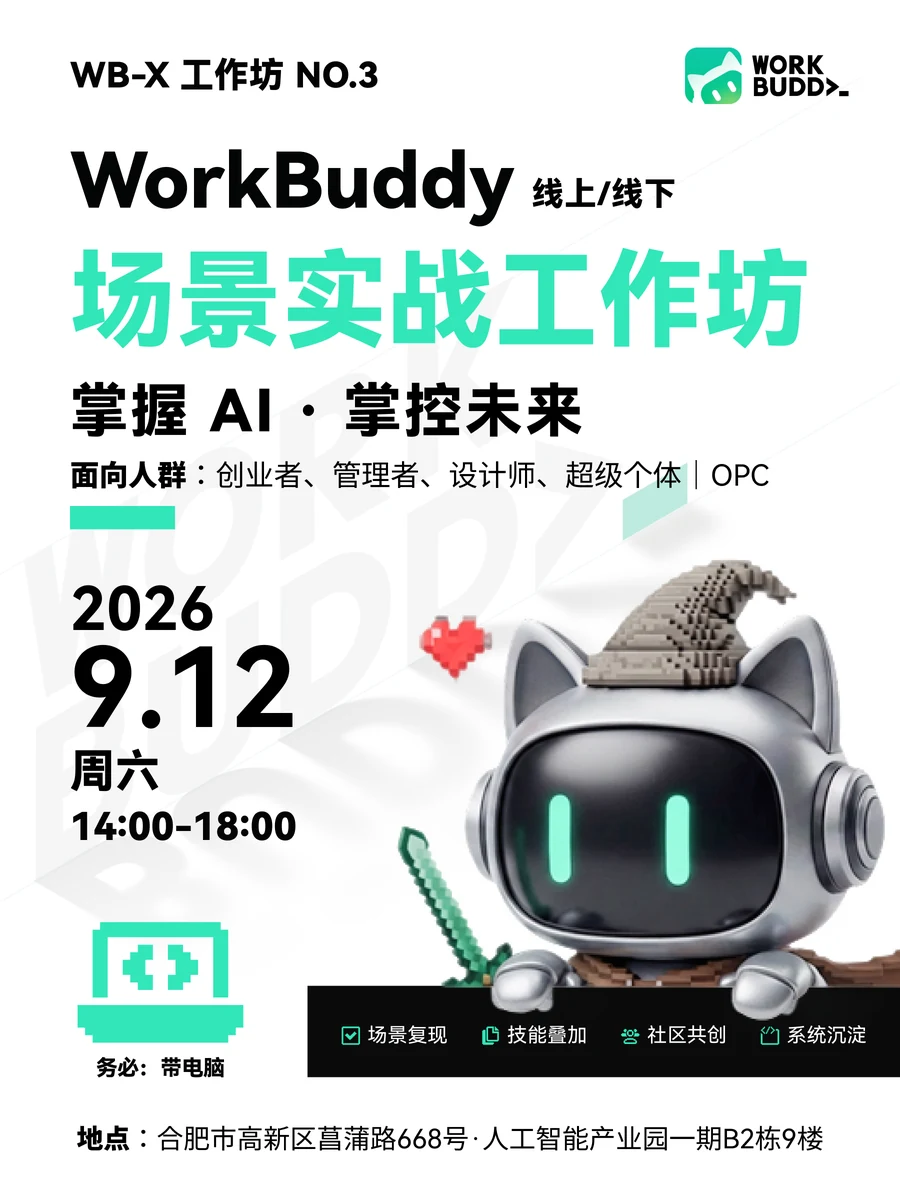
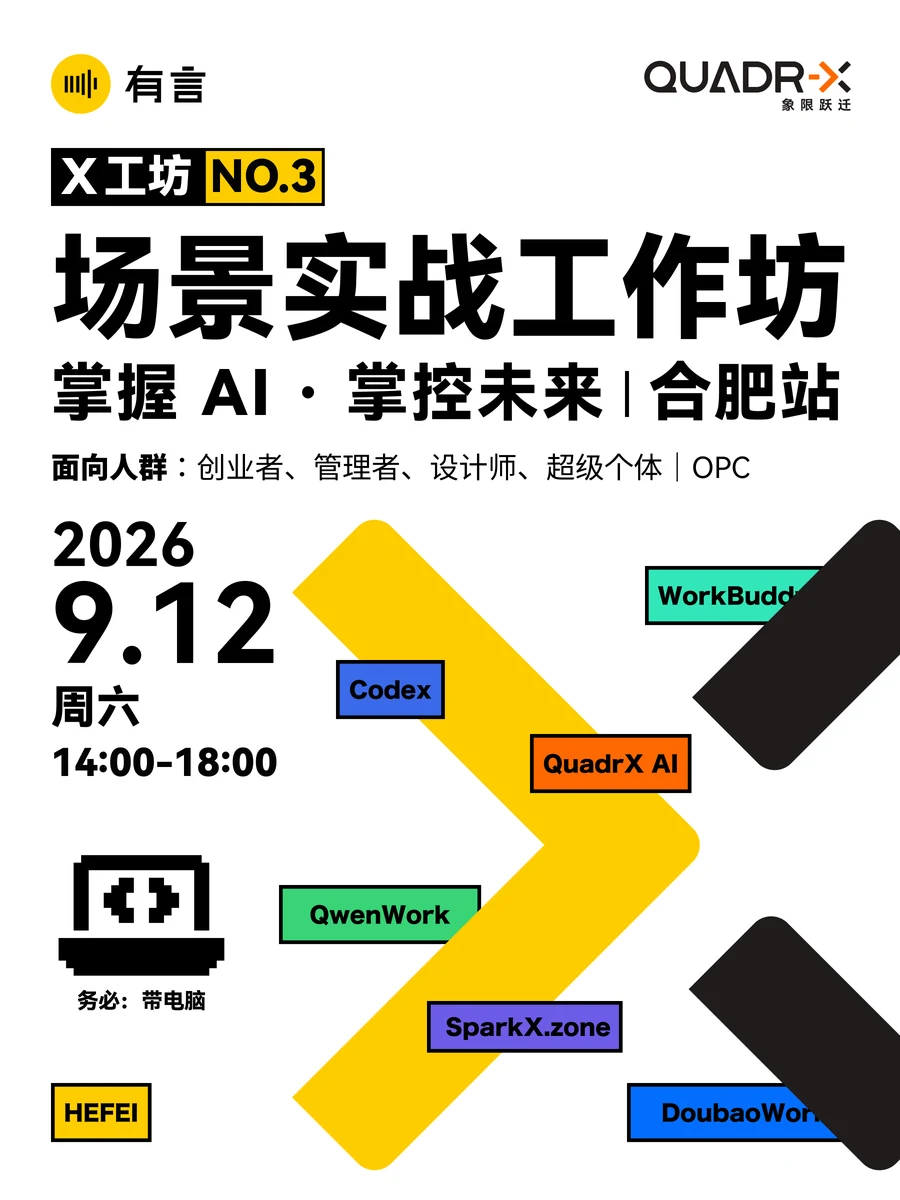
content: update September workshop details

diff --git a/tests/home-workshop.test.ts b/tests/home-workshop.test.ts
@@ -159,7 +159,7 @@ describe('homepage workshop card', () => {
     expect(document.querySelector('.wbx-home-workshop__recap')).not.toBeNull()
   })
 
-  it('shows the floor configured for each workshop edition', async () => {
+  it('shows the configured location and floor for each workshop edition', async () => {
     harness.mountHomePage()
     const editions = Array.from(document.querySelectorAll<HTMLButtonElement>('.wbx-workshop__edition'))
     const floor = () => document.querySelectorAll('.wbx-workshop__facts dd')[3]?.textContent
@@ -170,7 +170,13 @@ describe('homepage workshop card', () => {
     expect(floor()).toBe('B2 栋 9 楼')
     editions[2]?.click()
     await nextTick()
-    expect(floor()).toBe('B2 栋 9 楼')
+    const thirdEditionFacts = Array.from(document.querySelectorAll<HTMLElement>('.wbx-workshop__facts > div'))
+    expect(thirdEditionFacts.map((fact) => fact.querySelector('dt')?.textContent))
+      .toEqual(['时间', '规模', '城市', '地点', '楼层'])
+    expect(thirdEditionFacts[2]?.querySelector('dd')?.textContent).toBe('合肥')
+    expect(Array.from(thirdEditionFacts[3]?.querySelectorAll('dd span') ?? []).map((part) => part.textContent))
+      .toEqual(['高新区菖蒲路 668 号', '人工智能产业园一期'])
+    expect(thirdEditionFacts[4]?.querySelector('dd')?.textContent).toBe('A1 栋 4 楼')
   })
 
   it.each([0, 1, 8, 9])('shows a stable attendee row for %i uploaded avatars', (count) => {
@@ -264,7 +270,6 @@ describe('homepage workshop card', () => {
     await nextTick()
     expect(editions[2].getAttribute('aria-selected')).toBe('true')
     expect(document.activeElement).toBe(editions[2])
-    expect(next()).toBeNull()
 
     editions[2].dispatchEvent(new KeyboardEvent('keydown', { key: 'Home', bubbles: true }))
     await nextTick()
@@ -289,6 +294,31 @@ describe('homepage workshop card', () => {
     previous()?.click()
     await nextTick()
     expect(posterSource()).toContain('workshop-829-benefits.png')
+  })
+
+  it('shows the three September posters and its dedicated registration QR', async () => {
+    harness.mountHomePage()
+    const workshop = document.querySelector('.wbx-home-workshop')
+    const thirdEdition = workshop?.querySelectorAll<HTMLButtonElement>('.wbx-workshop__edition')[2]
+    const posterSource = () => workshop?.querySelector<HTMLImageElement>('.wbx-workshop__poster')?.getAttribute('src')
+    const next = () => workshop?.querySelector<HTMLButtonElement>('.wbx-workshop__poster-control--next')
+
+    thirdEdition?.click()
+    await nextTick()
+
+    expect(posterSource()).toContain('workshop-912.png')
+    expect(workshop?.querySelector('.wbx-workshop__poster-page')?.textContent?.trim()).toBe('1 / 3')
+    next()?.click()
+    await nextTick()
+    expect(posterSource()).toContain('workshop-912-agenda.png')
+    next()?.click()
+    await nextTick()
+    expect(posterSource()).toContain('workshop-912-benefits.png')
+
+    workshop?.querySelector<HTMLButtonElement>('.wbx-home-workshop__registration-trigger')?.click()
+    await nextTick()
+    expect(workshop?.querySelector<HTMLImageElement>('.wbx-home-workshop__registration-popover img')?.getAttribute('src'))
+      .toContain('workshop-912-registration-qr.png')
   })
 
   it('does not steal focus when an open QR is closed by another workshop control', async () => {

diff --git a/tests/product-page-computed-style.test.ts b/tests/product-page-computed-style.test.ts
@@ -548,7 +548,7 @@ describe('product page computed styles', () => {
       document.body.innerHTML = `
         <section class="wbx-home-workshop wbx-workshop">
           <div class="wbx-workshop__panel">
-            <div class="wbx-workshop__left"><div class="wbx-workshop__copy"><div class="wbx-workshop__heading"><p class="wbx-workshop__eyebrow">WORKSHOP</p><h2 id="workshop-title">WorkBuddy X 工作坊 <span class="wbx-workshop__title-edition">第二期</span></h2></div><div class="wbx-workshop__actions"><div class="wbx-home-workshop__registration"><button class="wbx-workshop__action wbx-workshop__action--primary">报名</button></div></div></div><div class="wbx-workshop__editions-row"><div class="wbx-workshop__editions"><button class="wbx-workshop__edition" aria-selected="true">第二期</button></div></div></div>
+            <div class="wbx-workshop__left"><div class="wbx-workshop__copy"><div class="wbx-workshop__heading"><p class="wbx-workshop__eyebrow">WORKSHOP</p><h2 id="workshop-title">WorkBuddy X 工作坊 <span class="wbx-workshop__title-edition">第二期</span></h2></div><div class="wbx-workshop__actions"><div class="wbx-home-workshop__registration"><button class="wbx-workshop__action wbx-workshop__action--primary">报名</button><div class="wbx-home-workshop__registration-popover is-open"><img src="/qr.png" alt="报名二维码"></div></div></div></div><div class="wbx-workshop__editions-row"><div class="wbx-workshop__editions"><button class="wbx-workshop__edition" aria-selected="true">第二期</button></div></div></div>
             <figure class="wbx-workshop__media"><a class="wbx-workshop__poster-link"><img class="wbx-workshop__poster"></a></figure>
             <div class="wbx-workshop__poster-navigation">海报导航</div>
           </div>
@@ -563,10 +563,17 @@ describe('product page computed styles', () => {
       expect(workshop.width).toBe(sectionWidth)
       expect(workshop.marginLeft).toBe(titleInset)
       const facts = document.createElement('dl')
-      facts.className = 'wbx-workshop__facts'
+      facts.className = 'wbx-workshop__facts has-city'
       document.querySelector('.wbx-workshop__copy')!.append(facts)
       expect(getComputedStyle(facts).borderTopColor).toBe('rgb(227, 231, 228)')
       expect(getComputedStyle(facts).borderBottomColor).toBe('rgb(227, 231, 228)')
+      expect(getComputedStyle(facts).gridTemplateColumns).toBe(viewportWidth === 390
+        ? 'repeat(2, minmax(0, 1fr))'
+        : 'minmax(0, 1.4fr) minmax(0, 0.8fr) minmax(0, 0.65fr) minmax(0, 1.55fr) minmax(0, 0.8fr)')
+      const registrationQr = getComputedStyle(document.querySelector('.wbx-home-workshop__registration-popover img')!)
+      expect(registrationQr.marginTop).toBe('12px')
+      expect(registrationQr.marginLeft).toBe('12px')
+      expect(registrationQr.marginRight).toBe('12px')
       if (viewportWidth === 1440) expect(panel.justifyContent).toBe('space-between')
       const workshopTitle = getComputedStyle(document.querySelector('#workshop-title')!)
       expect(workshopTitle.fontSize).toBe(viewportWidth === 390 ? '30px' : '40px')

diff --git a/docs/.vitepress/theme/workshop.css b/docs/.vitepress/theme/workshop.css
@@ -43,6 +43,7 @@
 .wbx-workshop__poster-page { position: static; border: 1px solid var(--wbx-line); border-radius: var(--wbx-radius-sm); padding: 4px 9px; color: var(--wbx-ink); background: var(--wbx-surface); font-size: 12px; font-weight: var(--wbx-weight-bold); line-height: 1; }
 
 .wbx-workshop__facts { display: grid; grid-template-columns: repeat(4, minmax(0, 1fr)); margin: 0 0 28px; border-top: 1px solid var(--wbx-line); border-bottom: 1px solid var(--wbx-line); }
+.wbx-workshop__facts.has-city { grid-template-columns: minmax(0, 1.4fr) minmax(0, 0.8fr) minmax(0, 0.65fr) minmax(0, 1.55fr) minmax(0, 0.8fr); }
 .wbx-workshop__facts > div { min-width: 0; padding: 14px 16px 14px 0; }
 .wbx-workshop__facts > div + div { border: 0; padding-left: 16px; }
 .wbx-workshop__facts dt { color: var(--wbx-muted); font-size: 12px; font-weight: 700; }
@@ -68,7 +69,7 @@
 .wbx-home-workshop__registration { position: relative; }
 .wbx-home-workshop__registration-popover { position: absolute; z-index: 20; bottom: calc(100% + 14px); left: 0; display: none; width: min(240px, calc(100vw - 28px)); overflow: hidden; border: 1px solid var(--wbx-line); border-radius: var(--wbx-radius-lg); background: var(--wbx-surface); box-shadow: var(--wbx-shadow-hover); }
 .wbx-home-workshop__registration-popover.is-open { display: block; }
-.wbx-home-workshop__registration-popover img { display: block; width: 100%; height: auto; aspect-ratio: 1; }
+.wbx-home-workshop__registration-popover img { display: block; width: calc(100% - 24px); height: auto; margin: 12px 12px 0; aspect-ratio: 1; }
 .wbx-home-workshop__registration-popover strong { display: block; padding: 10px 12px; font-size: 13px; text-align: center; }
 
 .wbx-workshop__editions-row { display: flex; width: 574px; max-width: 100%; gap: 12px; align-items: flex-start; margin-top: auto; }
@@ -100,6 +101,7 @@
   .wbx-workshop__title-edition { font-size: var(--wbx-type-aux-size); }
   .wbx-workshop .wbx-workshop__promise { font-size: var(--wbx-type-section-size); }
   .wbx-workshop__facts { grid-template-columns: repeat(2, minmax(0, 1fr)); }
+  .wbx-workshop__facts.has-city { grid-template-columns: repeat(2, minmax(0, 1fr)); }
   .wbx-workshop__facts > div + div { padding-left: 8px; }
   .wbx-workshop__actions { display: grid; }
   .wbx-workshop__action,

diff --git a/docs/.vitepress/workshop-editions.ts b/docs/.vitepress/workshop-editions.ts
@@ -12,6 +12,7 @@ export interface WorkshopEdition {
   endsAt: string
   time: string
   capacity: string
+  city?: string
   venue: string
   area: string
   floor: string
@@ -97,15 +98,16 @@ export const workshopEditions: readonly WorkshopEdition[] = [
     endsAt: '2026-09-12T18:00:00+08:00',
     time: serviceConfig.workshop.time,
     capacity: serviceConfig.workshop.capacity,
-    venue,
-    area,
-    floor: 'B2 栋 9 楼',
+    city: '合肥',
+    venue: '高新区菖蒲路 668 号',
+    area: '人工智能产业园一期',
+    floor: 'A1 栋 4 楼',
     coverPath: '/article-assets/service/workshop-912.png',
     thumbnailPath: '/article-assets/service/workshop-912-thumb.webp',
-    posterPaths: ['/article-assets/service/workshop-912.png'],
-    displayPosterPaths: ['/article-assets/service/workshop-912-display.webp'],
+    posterPaths: ['/article-assets/service/workshop-912.png', '/article-assets/service/workshop-912-agenda.png', '/article-assets/service/workshop-912-benefits.png'],
+    displayPosterPaths: ['/article-assets/service/workshop-912-display.webp', '/article-assets/service/workshop-912-agenda-display.webp', '/article-assets/service/workshop-912-benefits-display.webp'],
     activityDetailUrl: '',
-    registrationQrPath: serviceConfig.workshop.registrationQrPath,
+    registrationQrPath: '/article-assets/service/workshop-912-registration-qr.png',
   },
 ]
 

diff --git a/docs/.vitepress/theme/HomeWorkshop.vue b/docs/.vitepress/theme/HomeWorkshop.vue
@@ -170,9 +170,10 @@ onBeforeUnmount(() => {
             <p class="wbx-workshop__summary">先用一场工作坊，找到值得定制的真问题</p>
           </div>
           <p class="wbx-workshop__audience">面向人群：创业者、管理者、设计师、超级个体、一人公司（OPC）</p>
-          <dl class="wbx-workshop__facts" :aria-label="`${selectedWorkshop.edition}工作坊信息`">
+          <dl class="wbx-workshop__facts" :class="{ 'has-city': selectedWorkshop.city }" :aria-label="`${selectedWorkshop.edition}工作坊信息`">
             <div><dt>时间</dt><dd><span>{{ selectedWorkshop.fullDate }}</span><span>{{ selectedWorkshop.time }}</span></dd></div>
             <div><dt>规模</dt><dd>{{ selectedWorkshop.capacity }}</dd></div>
+            <div v-if="selectedWorkshop.city"><dt>城市</dt><dd>{{ selectedWorkshop.city }}</dd></div>
             <div><dt>地点</dt><dd><span>{{ selectedWorkshop.venue }}</span><span>{{ selectedWorkshop.area }}</span></dd></div>
             <div><dt>楼层</dt><dd>{{ selectedWorkshop.floor }}</dd></div>
           </dl>

diff --git a/scripts/generate-responsive-workshop-images.py b/scripts/generate-responsive-workshop-images.py
@@ -14,6 +14,8 @@ POSTERS = (
     'workshop-829-benefits.png',
     'workshop-829-reminder.png',
     'workshop-912.png',
+    'workshop-912-agenda.png',
+    'workshop-912-benefits.png',
 )
 COVERS = {'workshop-815.png', 'workshop-cover.png', 'workshop-912.png'}
 
